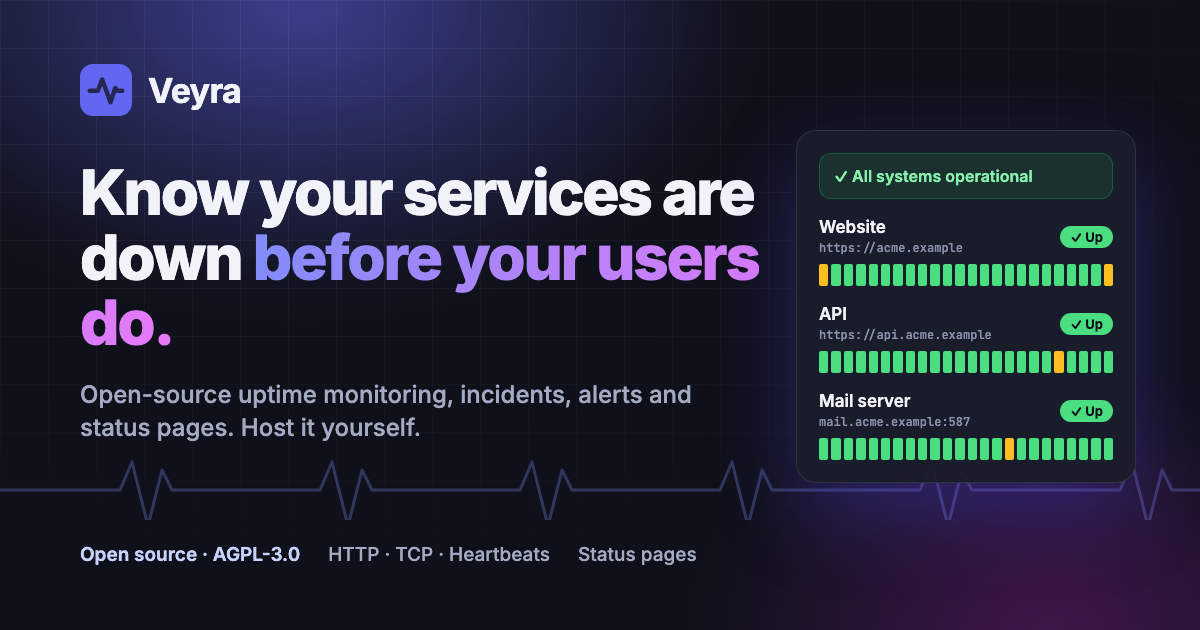
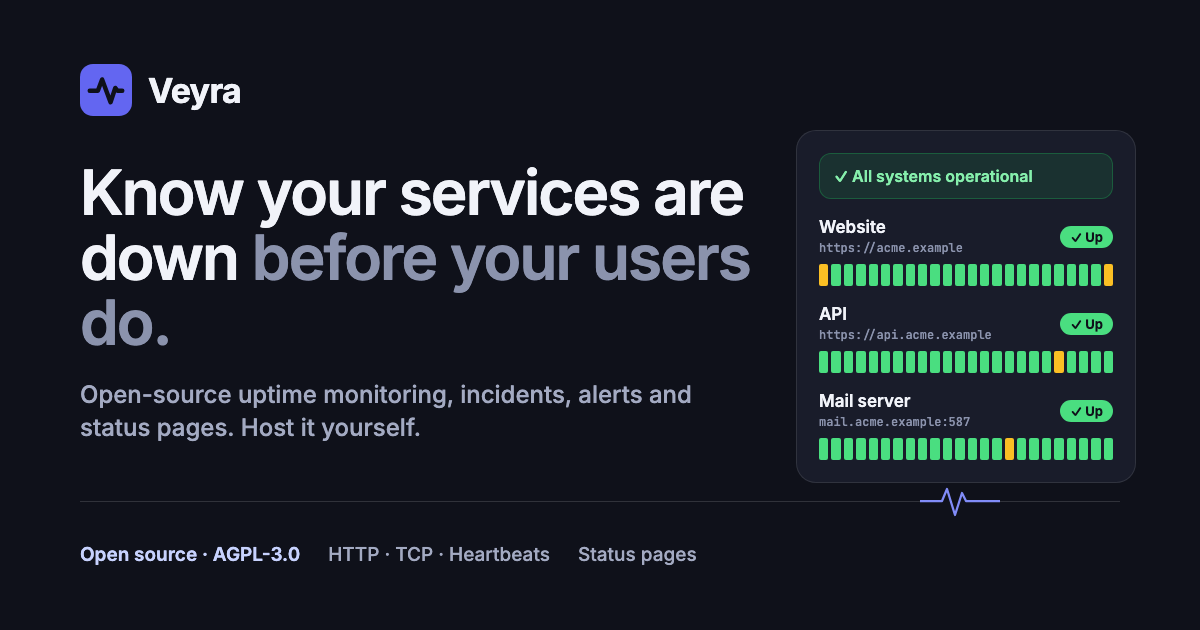
Landing page: calmer hero without decorative effects

Changed region(s): [[0.0, 0.0, 1.0, 1.0], [0.0617, 0.4825, 0.1542, 0.573]]

diff --git a/resources/js/pages/Welcome.vue b/resources/js/pages/Welcome.vue
@@ -207,12 +207,6 @@ const copyCommands = async () => {
         copied.value = false;
     }
 };
-
-/** One heartbeat every 200 px, drawn across the hero background. */
-const ecgPath = Array.from(
-    { length: 6 },
-    () => 'h120 l12 -28 l16 70 l14 -62 l10 20 h28',
-).join(' ');
 </script>
 
 <template>
@@ -220,7 +214,7 @@ const ecgPath = Array.from(
 
     <div class="min-h-svh overflow-x-clip bg-background text-foreground">
         <header
-            class="sticky top-0 z-30 border-b border-border/60 bg-background/70 backdrop-blur-lg"
+            class="sticky top-0 z-30 border-b bg-background/90 backdrop-blur"
         >
             <nav
                 class="mx-auto flex h-16 max-w-6xl items-center gap-4 px-4 sm:px-6"
@@ -280,76 +274,34 @@ const ecgPath = Array.from(
 
         <main>
             <!-- Hero -->
-            <section class="relative isolate">
+            <section>
                 <div
-                    class="pointer-events-none absolute inset-0 -z-10 overflow-hidden"
-                    aria-hidden="true"
-                >
-                    <div
-                        class="absolute inset-0 bg-[linear-gradient(to_right,var(--border)_1px,transparent_1px),linear-gradient(to_bottom,var(--border)_1px,transparent_1px)] [mask-image:radial-gradient(ellipse_70%_60%_at_50%_0%,black,transparent)] bg-[size:56px_56px]"
-                    />
-                    <div
-                        class="absolute top-[-12rem] left-1/2 h-[36rem] w-[64rem] -translate-x-1/2 rounded-full bg-[radial-gradient(closest-side,color-mix(in_oklch,var(--primary)_32%,transparent),transparent)] blur-2xl"
-                    />
-                    <svg
-                        class="absolute top-[19rem] left-1/2 hidden h-24 w-[1200px] -translate-x-1/2 [mask-image:linear-gradient(to_right,black,transparent_28%,transparent_72%,black)] text-primary/25 sm:block"
-                        viewBox="0 0 1200 96"
-                        fill="none"
-                    >
-                        <path
-                            :d="`M0 60 ${ecgPath}`"
-                            stroke="currentColor"
-                            stroke-width="2"
-                            stroke-linecap="round"
-                            stroke-linejoin="round"
-                        />
-                        <path
-                            :d="`M0 60 ${ecgPath}`"
-                            class="text-primary motion-safe:animate-ecg"
-                            stroke="currentColor"
-                            stroke-width="2.5"
-                            stroke-linecap="round"
-                            stroke-linejoin="round"
-                            stroke-dasharray="160 1040"
-                        />
-                    </svg>
-                </div>
-
-                <div
-                    class="mx-auto flex max-w-4xl flex-col items-center gap-7 px-4 pt-16 pb-14 text-center sm:px-6 sm:pt-24"
+                    class="mx-auto flex max-w-6xl flex-col gap-7 px-4 pt-16 pb-12 sm:px-6 sm:pt-24"
                 >
                     <a
                         :href="repositoryUrl"
                         target="_blank"
                         rel="noopener noreferrer"
-                        class="group inline-flex items-center gap-2 rounded-full border bg-background/80 px-3 py-1 text-xs text-muted-foreground shadow-xs backdrop-blur transition-colors hover:text-foreground"
+                        class="inline-flex w-fit items-center gap-2 font-mono text-xs text-muted-foreground hover:text-foreground"
                     >
-                        <span class="relative flex size-2" aria-hidden="true">
-                            <span
-                                class="absolute inline-flex size-full rounded-full bg-status-up opacity-75 motion-safe:animate-ping"
-                            />
-                            <span
-                                class="relative inline-flex size-2 rounded-full bg-status-up"
-                            />
-                        </span>
-                        {{ t('Open source · AGPL-3.0') }}
-                        <ArrowRight
-                            class="size-3 transition-transform group-hover:translate-x-0.5"
+                        <span
+                            class="size-2 rounded-full bg-status-up"
+                            aria-hidden="true"
                         />
+                        {{ t('Open source · AGPL-3.0') }}
                     </a>
 
                     <h1
-                        class="text-4xl font-bold tracking-tight text-balance sm:text-6xl lg:text-7xl"
+                        class="max-w-4xl text-4xl font-semibold tracking-tight text-balance sm:text-6xl"
                     >
                         {{ t('Know your services are down') }}
-                        <span
-                            class="bg-gradient-to-r from-primary via-chart-3 to-primary bg-clip-text text-transparent"
-                            >{{ t('before your users do.') }}</span
-                        >
+                        <span class="text-muted-foreground">{{
+                            t('before your users do.')
+                        }}</span>
                     </h1>
 
                     <p
-                        class="max-w-2xl text-lg text-pretty text-muted-foreground sm:text-xl"
+                        class="max-w-2xl text-lg text-pretty text-muted-foreground"
                     >
                         {{
                             t(
@@ -358,32 +310,17 @@ const ecgPath = Array.from(
                         }}
                     </p>
 
-                    <div class="flex flex-wrap justify-center gap-3">
-                        <Button
-                            v-if="canRegister"
-                            size="lg"
-                            class="h-11 px-6 shadow-lg shadow-primary/25"
-                            as-child
-                        >
+                    <div class="flex flex-wrap items-center gap-3">
+                        <Button v-if="canRegister" size="lg" as-child>
                             <Link :href="register()">
                                 {{ t('Start monitoring') }}
                                 <ArrowRight class="size-4" />
                             </Link>
                         </Button>
-                        <Button
-                            v-else
-                            size="lg"
-                            class="h-11 px-6 shadow-lg shadow-primary/25"
-                            as-child
-                        >
+                        <Button v-else size="lg" as-child>
                             <Link :href="login()">{{ t('Log in') }}</Link>
                         </Button>
-                        <Button
-                            size="lg"
-                            variant="outline"
-                            class="h-11 bg-background/80 px-6 backdrop-blur"
-                            as-child
-                        >
+                        <Button size="lg" variant="outline" as-child>
                             <a href="#self-hosting">
                                 <Terminal class="size-4" />
                                 {{ t('Host it yourself') }}
@@ -392,7 +329,7 @@ const ecgPath = Array.from(
                     </div>
 
                     <ul
-                        class="flex flex-wrap justify-center gap-x-6 gap-y-2 text-sm text-muted-foreground"
+                        class="flex flex-wrap gap-x-6 gap-y-2 text-sm text-muted-foreground"
                     >
                         <li
                             v-for="point in [
@@ -409,29 +346,41 @@ const ecgPath = Array.from(
                     </ul>
                 </div>
 
+                <!-- A flat trace with a single beat: the last check came back. -->
+                <div
+                    class="mx-auto flex max-w-6xl items-center px-4 sm:px-6"
+                    aria-hidden="true"
+                >
+                    <span class="h-px flex-1 bg-border" />
+                    <svg
+                        viewBox="0 0 80 40"
+                        class="h-10 w-20 shrink-0 text-primary"
+                        fill="none"
+                    >
+                        <path
+                            d="M0 20h22l5-12 8 26 7-22 4 8h34"
+                            stroke="currentColor"
+                            stroke-width="1.75"
+                            stroke-linecap="round"
+                            stroke-linejoin="round"
+                        />
+                    </svg>
+                    <span class="h-px w-16 bg-border sm:w-40" />
+                </div>
+
                 <!-- Product preview -->
-                <div class="relative mx-auto max-w-5xl px-4 pb-20 sm:px-6">
-                    <div
-                        class="absolute inset-x-10 top-10 bottom-16 -z-10 rounded-[2rem] bg-primary/25 blur-3xl"
-                        aria-hidden="true"
-                    />
+                <div class="relative mx-auto max-w-6xl px-4 pt-6 pb-20 sm:px-6">
                     <figure
-                        class="overflow-hidden rounded-2xl border bg-card/95 shadow-2xl ring-1 shadow-primary/10 ring-foreground/5 backdrop-blur"
+                        class="overflow-hidden rounded-xl border bg-card shadow-sm"
                         :aria-label="t('Example of a Veyra dashboard')"
                     >
                         <div
                             class="flex items-center gap-2 border-b bg-muted/50 px-4 py-2.5"
                             aria-hidden="true"
                         >
-                            <span
-                                class="size-2.5 rounded-full bg-status-down/70"
-                            />
-                            <span
-                                class="size-2.5 rounded-full bg-status-degraded/70"
-                            />
-                            <span
-                                class="size-2.5 rounded-full bg-status-up/70"
-                            />
+                            <span class="size-2.5 rounded-full bg-border" />
+                            <span class="size-2.5 rounded-full bg-border" />
+                            <span class="size-2.5 rounded-full bg-border" />
                             <span
                                 class="mx-auto rounded-md border bg-background px-3 py-0.5 font-mono text-xs text-muted-foreground"
                                 >veyra.acme.example</span
@@ -522,7 +471,7 @@ const ecgPath = Array.from(
                     </figure>
 
                     <div
-                        class="absolute -right-2 bottom-6 hidden w-72 rounded-xl border bg-popover p-4 text-left shadow-xl motion-safe:animate-float sm:block lg:-right-10"
+                        class="absolute right-8 -bottom-2 hidden w-72 rounded-lg border bg-popover p-4 text-left shadow-md sm:block"
                         aria-hidden="true"
                     >
                         <div class="flex items-start gap-3">
@@ -589,7 +538,7 @@ const ecgPath = Array.from(
                     </div>
                     <ol class="relative mt-14 grid gap-10 md:grid-cols-3">
                         <div
-                            class="absolute top-6 right-[16%] left-[16%] hidden h-px bg-gradient-to-r from-transparent via-primary/40 to-transparent md:block"
+                            class="absolute top-6 right-[16%] left-[16%] hidden h-px bg-border md:block"
                             aria-hidden="true"
                         />
                         <li
@@ -598,7 +547,7 @@ const ecgPath = Array.from(
                             class="relative flex flex-col items-center gap-3 text-center"
                         >
                             <span
-                                class="relative flex size-12 items-center justify-center rounded-2xl border bg-card text-primary shadow-sm"
+                                class="relative flex size-12 items-center justify-center rounded-xl border bg-card text-primary"
                             >
                                 <component :is="step.icon" class="size-5" />
                                 <span
@@ -644,17 +593,12 @@ const ecgPath = Array.from(
                             v-for="feature in features"
                             :key="feature.title"
                             :class="[
-                                'group relative flex flex-col gap-3 overflow-hidden rounded-2xl border bg-card p-6 transition-all hover:-translate-y-0.5 hover:border-primary/40 hover:shadow-lg hover:shadow-primary/5',
+                                'flex flex-col gap-3 rounded-xl border bg-card p-6',
                                 feature.wide && 'lg:col-span-2',
                             ]"
                         >
-                            <div
-                                v-if="feature.wide"
-                                class="pointer-events-none absolute -top-16 -right-16 size-48 rounded-full bg-primary/10 blur-2xl"
-                                aria-hidden="true"
-                            />
                             <span
-                                class="flex size-10 items-center justify-center rounded-xl bg-primary/10 text-primary ring-1 ring-primary/20"
+                                class="flex size-10 items-center justify-center rounded-lg bg-primary/10 text-primary"
                             >
                                 <component :is="feature.icon" class="size-5" />
                             </span>
@@ -664,7 +608,7 @@ const ecgPath = Array.from(
                             </p>
                         </article>
                         <article
-                            class="flex flex-col justify-between gap-3 rounded-2xl border border-dashed p-6 lg:col-span-2"
+                            class="flex flex-col justify-between gap-3 rounded-xl border border-dashed p-6 lg:col-span-2"
                         >
                             <Languages class="size-5 text-primary" />
                             <p class="text-sm text-muted-foreground">
@@ -738,11 +682,7 @@ const ecgPath = Array.from(
 
                     <div class="relative">
                         <div
-                            class="absolute -inset-4 -z-10 rounded-3xl bg-primary/15 blur-2xl"
-                            aria-hidden="true"
-                        />
-                        <div
-                            class="overflow-hidden rounded-2xl border border-white/10 bg-[oklch(0.17_0.02_265)] text-[oklch(0.92_0.01_265)] shadow-2xl"
+                            class="overflow-hidden rounded-xl border border-white/10 bg-[oklch(0.17_0.02_265)] text-[oklch(0.92_0.01_265)]"
                         >
                             <div
                                 class="flex items-center justify-between border-b border-white/10 px-4 py-2.5 text-xs text-[oklch(0.72_0.03_265)]"
@@ -774,12 +714,8 @@ const ecgPath = Array.from(
             <!-- Call to action -->
             <section class="px-4 pb-20 sm:px-6">
                 <div
-                    class="relative isolate mx-auto max-w-6xl overflow-hidden rounded-3xl bg-primary px-6 py-16 text-center text-primary-foreground shadow-xl shadow-primary/20 sm:px-16"
+                    class="mx-auto max-w-6xl rounded-2xl bg-primary px-6 py-16 text-center text-primary-foreground sm:px-16"
                 >
-                    <div
-                        class="absolute inset-0 -z-10 bg-[linear-gradient(to_right,color-mix(in_oklch,var(--primary-foreground)_12%,transparent)_1px,transparent_1px),linear-gradient(to_bottom,color-mix(in_oklch,var(--primary-foreground)_12%,transparent)_1px,transparent_1px)] [mask-image:radial-gradient(ellipse_at_center,black,transparent_75%)] bg-[size:40px_40px]"
-                        aria-hidden="true"
-                    />
                     <h2
                         class="mx-auto max-w-2xl text-3xl font-bold tracking-tight text-balance sm:text-4xl"
                     >

diff --git a/resources/css/app.css b/resources/css/app.css
@@ -9,31 +9,6 @@
 
 @custom-variant dark (&:is(.dark *));
 
-/* Landing page motion (ADR-035); used with motion-safe: only. */
-@theme {
-    --animate-ecg: ecg 4s linear infinite;
-    --animate-float: float 6s ease-in-out infinite;
-
-    @keyframes ecg {
-        from {
-            stroke-dashoffset: 1200;
-        }
-        to {
-            stroke-dashoffset: 0;
-        }
-    }
-
-    @keyframes float {
-        0%,
-        100% {
-            transform: translateY(0);
-        }
-        50% {
-            transform: translateY(-6px);
-        }
-    }
-}
-
 @theme inline {
     --font-sans:
         'Inter', ui-sans-serif, system-ui, sans-serif, 'Apple Color Emoji',
